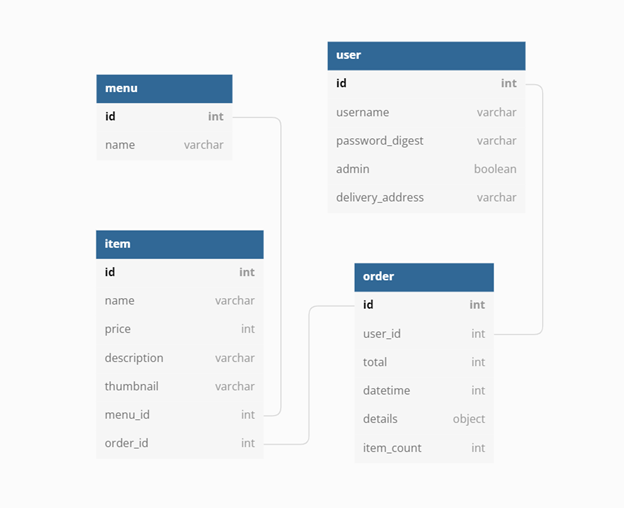
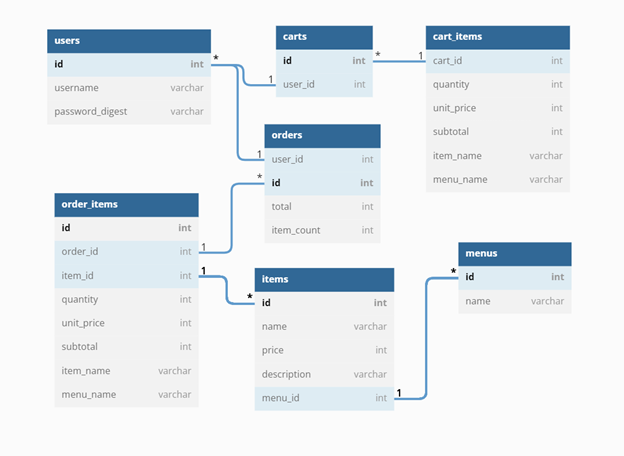
Update README.md

diff --git a/README.md b/README.md
@@ -59,20 +59,39 @@ You can use the following commands to run the application:
 ### User
 ```has_many :orders```
 
+```has_one :cart```
+
 ### Menu
 ```has_many :items```
 
 ### Item
-```belongs_to :order```
+```has_many :order_items```
+
+```has_many :cart_items```
 
 ```belongs_to :menu```
 
 ### Order
-```has_many :items```
-
-```has_many :menus, through: :items```
-
 ```belongs_to :user```
+
+```has_many :order_items```
+
+```has_many :items, through: :order_items```
+
+### OrderItem
+```belongs_to :order```
+
+```belongs_to :item```
+
+### Cart
+```belongs_to :user```
+
+```has_many :cart_items```
+
+### CartItem
+```belongs_to :cart```
+
+```belongs_to :item```
 
 -------
 -------
@@ -82,9 +101,7 @@ You can use the following commands to run the application:
 ```
 {
   "id": 1,
-  "username": "Matt",
-  "admin": true,
-  "delivery_address": ""
+  "username": "Matt"
 }
 ```
 -----
@@ -118,15 +135,13 @@ _____
       "id": 1,
       "name": "Breakfast Burrito",
       "price": 12,
-      "description": "Humongous egg & chorizo burrito with guacamole",
-      "thumbnail": "www.coolpicture.com"
+      "description": "Humongous egg & chorizo burrito with guacamole"
     },
     {
       "id": 2,
       "name": "Pancakes",
       "price": 10,
-      "description": "Tall stack of flapjacks with butter and maple syrup",
-      "thumbnail": "www.coolpicture2.com"
+      "description": "Tall stack of flapjacks with butter and maple syrup"
     }
     ...
     ...
@@ -141,36 +156,22 @@ _____
   "orders": [
     {
       "id": 1,
+      "user_id": 1,
       "created_at": "June 30, 2022",
       "total": 40,
       "item_count": 3,
-      "menus": [
+      "order_items": [
         {
-          "id": 3,
-          "name": "Some menu 1",
-          "items": [
-            {
-              "id": 1,
-              "name": "Dish1",
-              "price": 12
-            },
-            {
-              "id": 4,
-              "name": "Dish2",
-              "price": 17
-            }
-          ]
+          "item_id": 3,
+          "quantity": 1,
+          "subtotal": 10,
+          "unit_price": 10
         },
         {
-          "id": 4,
-          "name": "Some menu 2",
-          "items": [
-            {
-              "id": 2,
-              "name": "Dish1",
-              "price": 11
-            }
-          ]
+          "item_id": 3,
+          "quantity": 1,
+          "subtotal": 10,
+          "unit_price": 10
         }
       ]
     },
@@ -180,17 +181,12 @@ _____
       "created_at": "June 17, 2022",
       "total": 36,
       "item_count": 1,
-      "menus": [
+      "order_items": [
         {
-          "id": 1,
-          "name": "Some menu 4",
-          "items": [
-            {
-              "id": 2,
-              "name": "Dish4",
-              "price": 36
-            }
-          ]
+          "item_id": 3,
+          "quantity": 1,
+          "subtotal": 10,
+          "unit_price": 10
         }
       ]
     }
